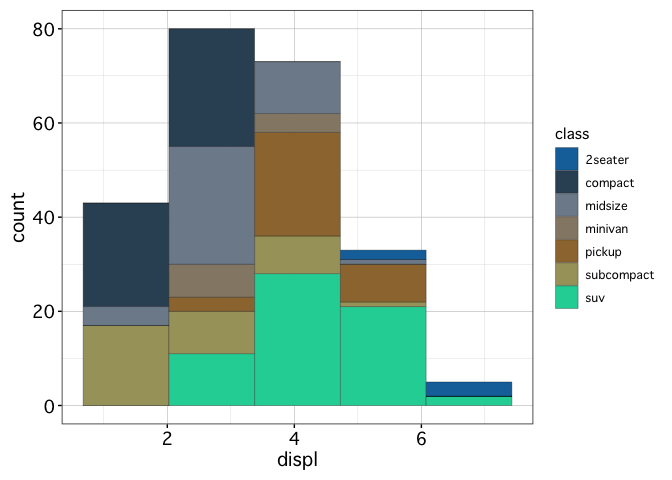
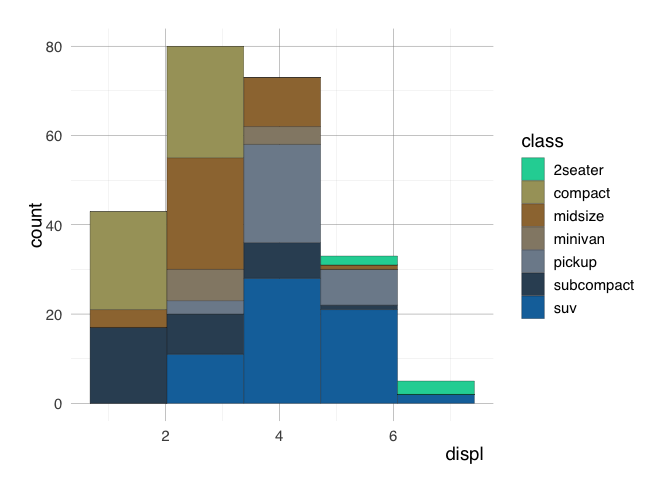
update readme

diff --git a/README.md b/README.md
@@ -136,8 +136,8 @@ g + geom_histogram(aes(fill=class),
                    bins=5, 
                    col="black", 
                    size=.1) +   
-  scale_fill_fishpals() +
-  theme_report()
+  scale_fill_fishpals(reverse = TRUE) +
+  theme_pres()
 #> Scale for 'fill' is already present. Adding another scale for 'fill',
 #> which will replace the existing scale.
 ```
